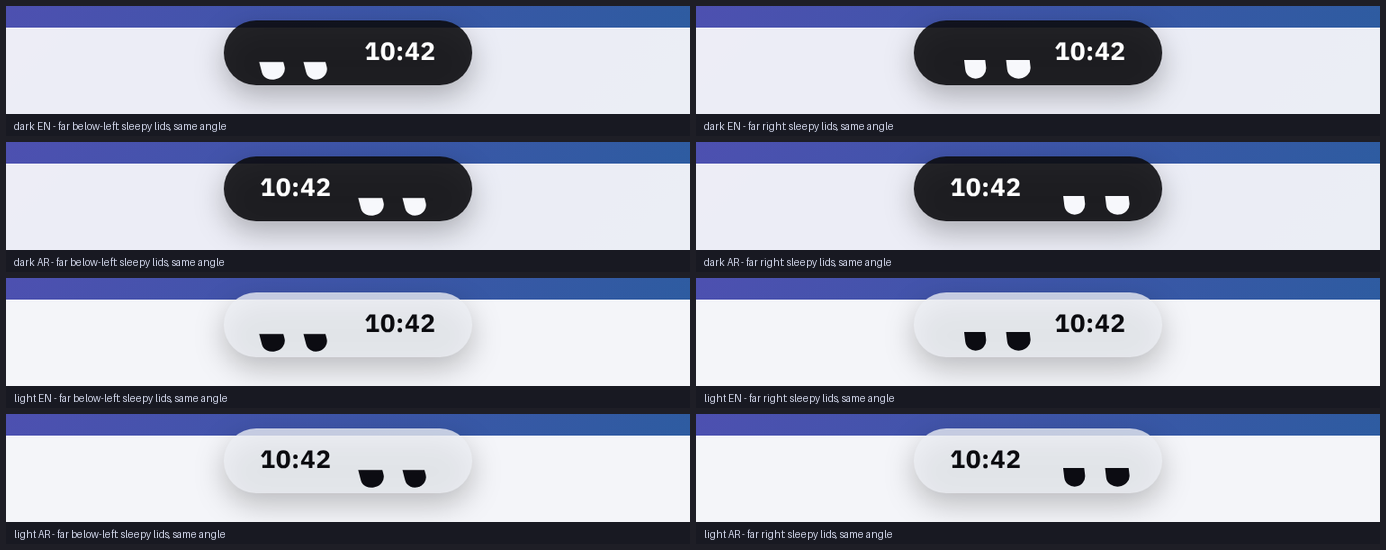
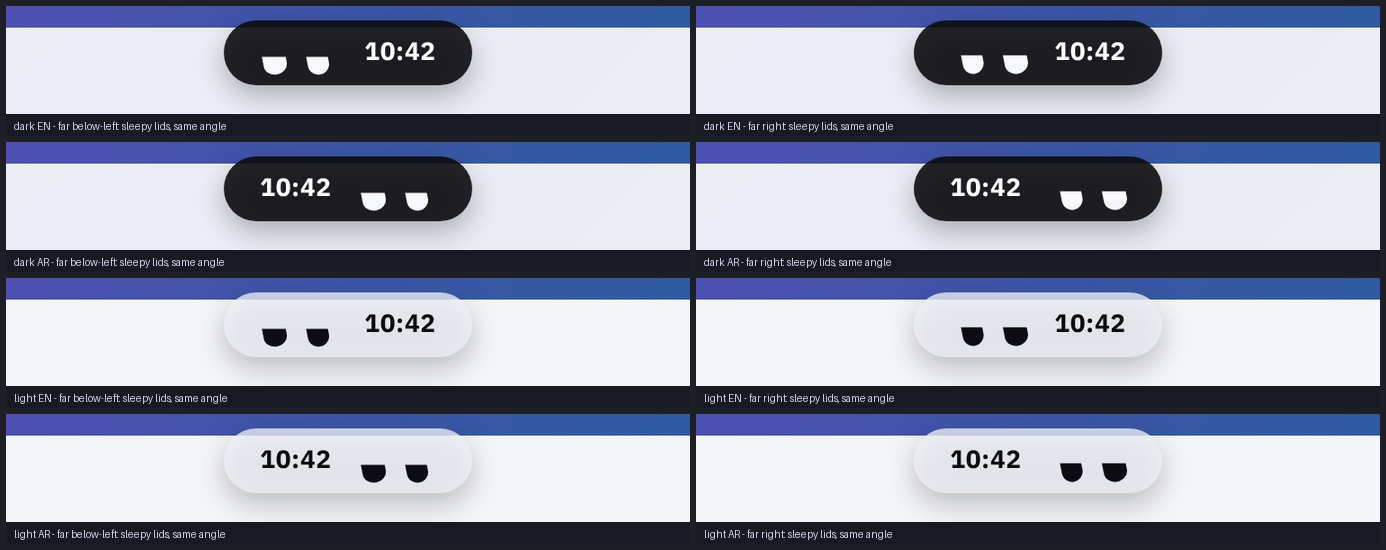
T19: idle eyes stay fixed, only a few-pixel gaze shift and far-side squash; lean and droop removed; boards re-rendered
Claude-Session: https://claude.ai/code/session_0195km4JxQgpvdvzjSE5eHZB

diff --git a/dev/t19/prototype/prototype.js b/dev/t19/prototype/prototype.js
@@ -95,8 +95,8 @@
   }
 
   // ---- C: eyes (MOTION_SPEC.md section 4). Two filled capsules, no pupils. The gaze is one smoothed vector g in [-1, 1]^2
-  // that follows the real angle to the cursor; offset, lean, far-eye squash and foreshortening are all derived from it.
-  const GAZE = { x: 7, y: 4, lean: 7, farSquash: 0.18, foreshorten: 0.12, ramp: 50, rate: 4, farGain: 0.6, yLimit: 4 };
+  // that follows the real angle to the cursor; the small offset, far-eye squash and foreshortening are all derived from it.
+  const GAZE = { x: 4, y: 3, farSquash: 0.18, foreshorten: 0.12, ramp: 50, rate: 4, farGain: 0.6 }; // the eyes never change place: only a few px of gaze shift
   const g = { x: 0, y: 0 }; // smoothed gaze
   let squint = 0, lidNow = 0.54;
   const slots = [...document.querySelectorAll('.slot')], eyeEls = [...document.querySelectorAll('.eye')], eyesBox = $('eyes');
@@ -137,10 +137,9 @@
       }
     }
     eye.g = { x: +g.x.toFixed(3), y: +g.y.toFixed(3) }; eye.lid = lidNow; eye.squint = squint; eye.blinkW = blinkW;
-    const tilt = -11 + g.x * GAZE.lean; // both eyes lean toward the cursor
-    const droop = 2.5 * (lidNow / 0.54);
+    const tilt = -11; // fixed: no lean
     const x = g.x * GAZE.x;
-    const y = clamp(g.y * GAZE.y + droop - 0.5 * squint, -GAZE.yLimit, GAZE.yLimit);
+    const y = g.y * GAZE.y - 0.5 * squint;
     eyesBox.style.transform = `translate(${x.toFixed(2)}px, ${y.toFixed(2)}px)`;
     const fore = 1 - GAZE.foreshorten * Math.abs(g.y) - 0.1 * (lidNow / 0.54);
     const sy = fore * (1 - 0.4 * squint);
@@ -208,6 +207,7 @@
     step(ms) { // manual clock: advance in 1 ms slices so the springs behave as in a live run
       for (let i = 0; i < ms; i++) { fake += 1; frame(1); }
     },
+    deferBlink() { eye.blinkT = -1; eye.blinkAt = now() + 1e7; stepC(0, now()); },
     blinkNow() { eye.blinkAt = now(); eye.blinkT = -1; },
     setBlinkT(ms) { eye.blinkT = ms; eye.blinkLen = 280; stepC(0, now()); },
     state() { return { f, d, vf, vd, target, eye: { ...eye } }; },

diff --git a/docs/MOTION_SPEC.md b/docs/MOTION_SPEC.md
@@ -149,12 +149,12 @@ In the collapsed pill, **eyes + time** (confirmed): `[eyes] [time]`, mirrored in
 | Eye | one **solid capsule 13 × 26**, fully rounded ends (radius 6.5), **no pupil, no outline** |
 | Resting tilt | **−11°** (top leans left), both eyes parallel; the same in LTR and RTL |
 | Two eyes | centres **22 apart**; the group's bounding box is ≈ **40 × 28** (78 % of the 36 px height; 4 px free above and below at rest) |
-| Eyes ↔ time | **≥ 16 px** at rest (CSS gap 16 + box slack), **≥ 6 px** at the extreme gaze (checked by the audit) |
+| Eyes ↔ time | **≥ 16 px** at rest, **≥ 11 px** at the extreme gaze (checked by the audit); the eyes never swap sides or approach the time |
 | Colour | dark island: `#f7f8fc`; light island: `#0c0c12` (near-black, strong contrast); the light/dark choice follows the island's tint exactly like the text does (`on-light`) |
 | Lid (sleepy) | not an overlay: the upright slot of each eye is **clipped from the top** by `lid × slot height`, so the cut edge is horizontal on screen and any material shows through |
 
-### 4.3 The gaze (fixed: obvious, 2-D, continuous angle)
-One smoothed vector **g ∈ [−1,1]²** drives everything; offset, lean, squash and foreshortening are all derived from it, so they cannot disagree.
+### 4.3 The gaze (obvious, 2-D, continuous angle; the eyes never change place)
+**The eyes stay fixed**: same two spots in the bar, same side of the time always (mirrored only by language direction), same −11° tilt, no lean. The gaze is a **small shift of a few pixels inside each eye's own spot**, plus a slight squash of the far-side eye for direction. One smoothed vector **g ∈ [−1,1]²** drives it, so the parts cannot disagree.
 
 ```
 d   = cursor − pillCentre            dist = |d|
@@ -165,21 +165,20 @@ g += (target − g) · (1 − exp(−4·dt))                  // 4 per second: t
 ```
 | Derived value | Formula | At full gaze |
 |---|---|---|
-| Group offset | `x = 7·g.x`, `y = clamp(4·g.y + droop − 0.5·squint, ±4)` | up to **±7 px** sideways, **±4 px** up/down (was ±5 / ±2) |
-| Lean (the 3-D turn) | both eyes rotate to `−11° + 7°·g.x`, i.e. **toward the cursor** | −18° looking left, −4° looking right |
+| Gaze shift (both eyes, same amount) | `x = 4·g.x`, `y = 3·g.y − 0.5·squint` | up to **±4 px** sideways, **±3 px** up/down |
 | Far-eye squash | the eye on the far side gets width `1 − 0.18·|g.x|` (cursor right: the left eye; cursor left: the right eye) | **0.82** |
 | Foreshortening | both eyes get length `1 − 0.12·|g.y|` | **0.88** looking straight down/up |
-| Droop (sleepy only) | `+2.5 px · lid/0.54` | |
+| Tilt, position of the group | **fixed**: −11°, the same spot | none |
 
 *sim*, the five requested positions (cursor measured from the pill centre; gaze after 2 s):
 
-| Cursor | g | group offset | tilt (both eyes) | far-eye width | length |
-|---|---|---|---|---|---|
-| left (−170, 0) | (−1.00, 0) | **−7 px**, 0 | −18° | right eye 0.82 | 1.00 |
-| right (+170, 0) | (+1.00, 0) | **+7 px**, 0 | −4° | left eye 0.82 | 1.00 |
-| below-left (−120, +85) | (−0.82, +0.58) | −5.7 px, **+2.3 px** | −16.7° | right eye 0.85 | 0.93 |
-| below-right (+120, +85) | (+0.82, +0.58) | +5.7 px, **+2.3 px** | −5.3° | left eye 0.85 | 0.93 |
-| directly below (0, +95) | (0, +1.00) | 0, **+4 px** | −11° | both 1.00 | **0.88** |
+| Cursor | g | gaze shift | far-eye width | length |
+|---|---|---|---|---|
+| left (−170, 0) | (−1.00, 0) | **−4 px**, 0 | right eye 0.82 | 1.00 |
+| right (+170, 0) | (+1.00, 0) | **+4 px**, 0 | left eye 0.82 | 1.00 |
+| below-left (−120, +85) | (−0.82, +0.58) | −3.3 px, **+1.7 px** | right eye 0.85 | 0.93 |
+| below-right (+120, +85) | (+0.82, +0.58) | +3.3 px, **+1.7 px** | left eye 0.85 | 0.93 |
+| directly below (0, +95) | (0, +1.00) | 0, **+3 px** | both 1.00 | **0.88** |
 
 Gaze accuracy (checked in every theme × language × mode of the QA run): the angle of **g equals the angle to the cursor within 4°**, including far positions (330 px away), where the magnitude is 0.60 and the lids are sleepy. Glide response to a cursor jump from below to the right (*sim*): 33 % of the way at 100 ms, **63 % at 250 ms**, 86.5 % at 500 ms, 98.2 % at 1 s.
 
@@ -187,7 +186,7 @@ Gaze accuracy (checked in every theme × language × mode of the QA run): the an
 | State | Condition | Lid | Gaze | Blink |
 |---|---|---|---|---|
 | **Awake** | cursor within 240 px | 0 | full (above) | auto, every **3–4 s**, **280 ms** |
-| **Sleepy** | cursor farther than 240 px, or left the screen | eases to **0.54** (τ 220 ms; wakes with τ 70 ms): flat-topped, half-closed filled eyes, drooping 2.5 px, 10 % shorter | still follows the angle at 60 % (or rests at the centre if the pointer left) | slow, every **8–14 s**, 380 ms |
+| **Sleepy** | cursor farther than 240 px, or left the screen | eases to **0.54** (τ 220 ms; wakes with τ 70 ms): flat-topped, half-closed filled eyes in the same spot, 10 % shorter | still follows the angle at 60 % (or rests at the centre if the pointer left) | slow, every **8–14 s**, 380 ms |
 | **Happy squint** | pointer on the pill | 0 | as awake, fades out | eyes become 1.1 × wider and **0.6 ×** as long (τ 90 ms), nudged up 0.5 px |
 | **Blink** | timer | | | the *filled eye itself* narrows to **10 % of its width** (1.3 px, still solid) and back: close 40 % of 280 ms (ease-in, quadratic), hold 8 %, open 52 % (ease-out); blink and gaze combine by multiplication |
 | **Hidden** | fullscreen, Eco, Motion Off, `idleEyes` false, opening, other compact content | | | |
@@ -218,4 +217,4 @@ The Settings preview already renders material × mode × size × position; it ga
 5. Manual Windows check list (never claimed from CI): 100/150/200 % DPI, two monitors, AppBar mode, acrylic vs glass, 60/144 Hz, RTL position clamp, fullscreen hide.
 
 ## 7. Limits of the prototype
-HTML springs are the same maths but run in Chromium; the eyes' gaze, lean and squash are CSS transforms of two `<i>` capsules, not Direct2D shapes; the droplet outline is a CSS path, not Direct2D; acrylic is `backdrop-filter`; screenshots/GIFs are produced on a manual clock (GIFs are slowed ×5: 8 ms of animation per 40 ms frame), so they show shape, not real-time feel. No real-device timing, power or GPU measurement exists for any of A–C.
+HTML springs are the same maths but run in Chromium; the eyes' gaze shift and squash are CSS transforms of two `<i>` capsules, not Direct2D shapes; the droplet outline is a CSS path, not Direct2D; acrylic is `backdrop-filter`; screenshots/GIFs are produced on a manual clock (GIFs are slowed ×5: 8 ms of animation per 40 ms frame), so they show shape, not real-time feel. No real-device timing, power or GPU measurement exists for any of A–C.

diff --git a/docs/HANDOFF.md b/docs/HANDOFF.md
@@ -772,3 +772,8 @@
 - Prototype (`dev/t19/prototype/`) now has the approved capsules, theme control (dark/light), a drawn cursor for captures, blink/sleepy/squint, and light-theme cards. `shots.mjs` audits 11 liquid-expand combinations (incl. 3 light), 8 gaze positions × dark/light × ar/en × 3 modes, 8 eye states × dark/light × ar/en, plus Reduced/Off.
 - Requests to Codex unchanged (keys `floating`, `idleEyes`, `panel:ready`, perf cases `eyes-idle|moving|hidden`, `liquid-open`); the real Settings window still has no floating/eyes switch because those keys are not in the contract.
 - Not tested: real Windows, real cursor polling cost (budgets only), GPU/CPU/power for B and C, screen readers, 150 % DPI. GIFs are slowed (liquid ×5; eyes real-time at 25 fps equivalents) on a manual clock.
+
+## 2026-10-29 · Claude · T19-UX (correction: the eyes never move, only the gaze)
+
+- Walid's correction applied to `docs/MOTION_SPEC.md` §4.3 and the prototype: the eyes stay in fixed spots (same side of the time always, mirrored only by language direction, tilt fixed at -11°); the gaze is a few-pixel shift inside each eye's own spot (**±4 px sideways, ±3 px up/down**) plus the far-side squash (0.82) and the 0.88 foreshortening looking down. The 6-8° lean and the sleepy droop are removed. The earlier ±7/±4 px group travel and lean numbers in the previous entry are superseded by this entry.
+- Evidence: `node dev/t19/prototype/shots.mjs` no layout problems, no page errors; eyes-to-time clearance now audited at >= 11 px at the extreme gaze; gaze angle within 4° of the cursor in all combinations. Re-rendered boards: `dev/t19/sheets/motion-C-gaze-{overlay,appbar,floating}.png` (+ `-far`), `motion-C-states.png`, GIFs.
